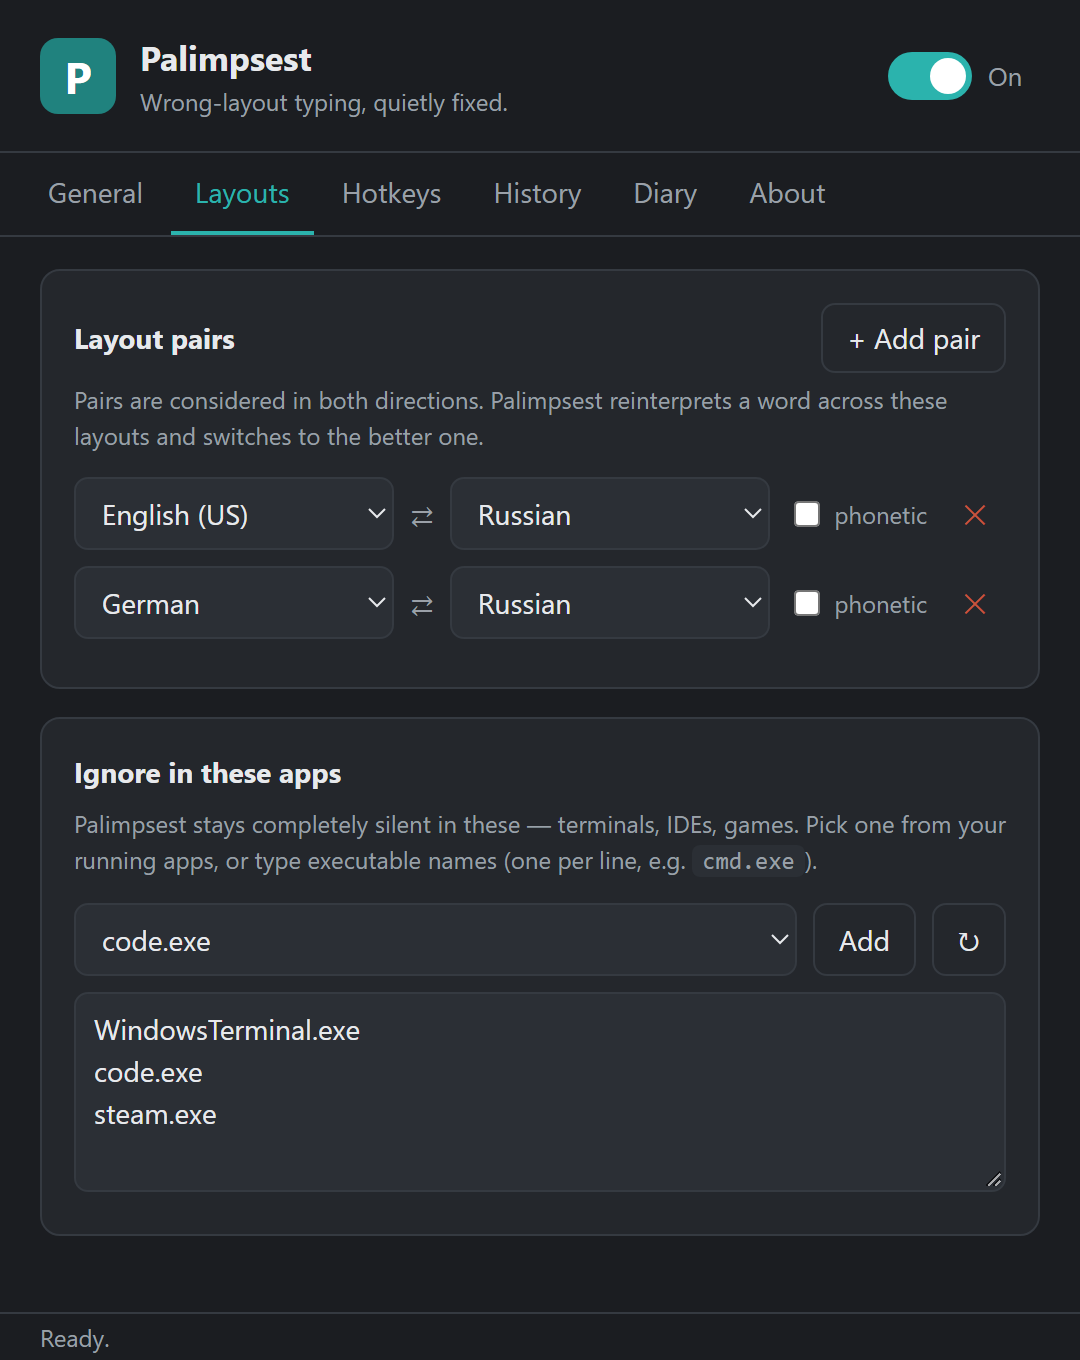
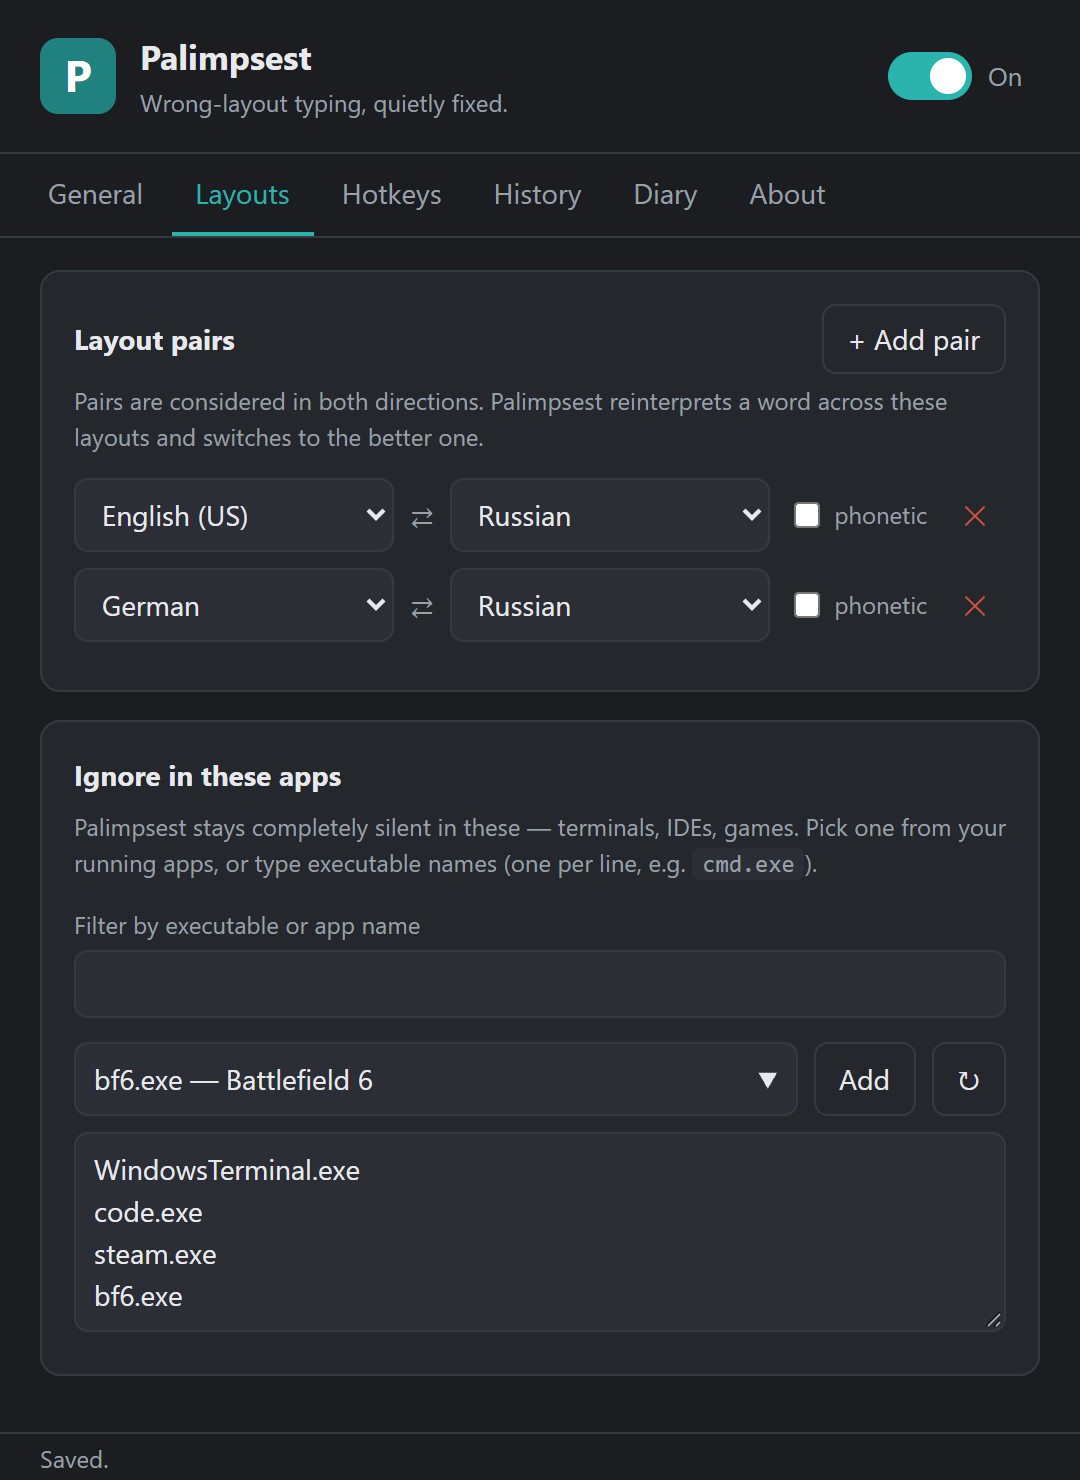
feat: Add searchable process names

diff --git a/crates/palimpsest-app/ui/main.js b/crates/palimpsest-app/ui/main.js
@@ -40,6 +40,7 @@ const el = {
   pairs: $("pairs"),
   addPair: $("add-pair"),
   ignore: $("ignore"),
+  procFilter: $("proc-filter"),
   procList: $("proc-list"),
   addProc: $("add-proc"),
   refreshProc: $("refresh-proc"),
@@ -178,6 +179,7 @@ async function refreshLocale() {
 // built from data (hotkey labels, history rows, learned words).
 function retranslate() {
   applyI18n();
+  if (el.procList.options.length) renderProcesses();
   el.enabledLabel.textContent = el.enabled.checked ? t("on") : t("paused");
   renderHotkey();
   renderHistory();
@@ -290,19 +292,49 @@ function readPairs() {
 
 // ----- Process picker --------------------------------------------------------
 
+let runningProcesses = [];
+
 async function loadProcesses() {
+  if (el.refreshProc.disabled) return;
+  el.refreshProc.disabled = true;
   try {
-    const procs = await invoke("list_processes");
-    el.procList.innerHTML = "";
-    for (const name of procs) {
-      const opt = document.createElement("option");
-      opt.value = name;
-      opt.textContent = name;
-      el.procList.appendChild(opt);
-    }
+    runningProcesses = await invoke("list_processes");
+    renderProcesses();
   } catch (e) {
     setStatus(t("listAppsFailed", { error: e }));
+  } finally {
+    el.refreshProc.disabled = false;
   }
+}
+
+function renderProcesses() {
+  const previous = el.procList.value;
+  const query = el.procFilter.value.trim().toLowerCase();
+  const options = [];
+  for (const { exe, display_name } of runningProcesses) {
+    if (!exe.toLowerCase().includes(query) && !display_name?.toLowerCase().includes(query)) continue;
+
+    const option = new Option("", exe);
+    const filename = document.createElement("span");
+    const separator = document.createElement("span");
+    const name = document.createElement("span");
+    filename.textContent = exe;
+    separator.className = "proc-separator";
+    separator.textContent = display_name ? " — " : "";
+    name.className = "proc-name";
+    name.textContent = display_name || "";
+    option.append(filename, separator, name);
+    option.title = option.textContent;
+    if (exe === previous) option.selected = true;
+    options.push(option);
+  }
+  el.addProc.disabled = options.length === 0;
+  if (!options.length) {
+    const empty = new Option(t("noMatchingProcesses"), "", true, true);
+    empty.disabled = true;
+    options.push(empty);
+  }
+  el.procList.replaceChildren(...options);
 }
 
 function ignoreList() {
@@ -773,6 +805,7 @@ function wire() {
     apply();
   });
 
+  el.procFilter.addEventListener("input", renderProcesses);
   el.addProc.addEventListener("click", () => addIgnore(el.procList.value));
   el.refreshProc.addEventListener("click", loadProcesses);
 
@@ -1039,7 +1072,6 @@ async function init() {
   } catch (e) {
     setStatus(t("listLayoutsFailed", { error: e }));
   }
-  await loadProcesses();
   await loadWords();
   try {
     const config = await invoke("get_config");
@@ -1052,6 +1084,7 @@ async function init() {
   } catch (e) {
     setStatus(t("loadFailed", { error: e }));
   }
+  loadProcesses();
   try {
     appVersion = await invoke("app_version");
     renderAbout();

diff --git a/crates/palimpsest-app/ui/i18n.js b/crates/palimpsest-app/ui/i18n.js
@@ -46,6 +46,8 @@ const I18N = {
       "Palimpsest stays completely silent in these — terminals, IDEs, games. Pick one from your running apps, or type executable names (one per line, e.g. <code>cmd.exe</code>).",
     add: "Add",
     refreshList: "Refresh list",
+    filterProcesses: "Filter by executable or app name",
+    noMatchingProcesses: "No matching processes",
 
     language: "Language",
     languageHint:
@@ -226,6 +228,8 @@ const I18N = {
       "В них Palimpsest полностью молчит — терминалы, IDE, игры. Выберите из запущенных приложений или впишите имена исполняемых файлов (по одному в строке, например <code>cmd.exe</code>).",
     add: "Добавить",
     refreshList: "Обновить список",
+    filterProcesses: "Фильтр по имени файла или приложения",
+    noMatchingProcesses: "Подходящих процессов нет",
 
     language: "Язык",
     languageHint:
@@ -406,6 +410,8 @@ const I18N = {
       "У них Palimpsest повністю мовчить — термінали, IDE, ігри. Оберіть із запущених застосунків або впишіть імена виконуваних файлів (по одному в рядку, наприклад <code>cmd.exe</code>).",
     add: "Додати",
     refreshList: "Оновити список",
+    filterProcesses: "Фільтр за назвою файлу або застосунку",
+    noMatchingProcesses: "Відповідних процесів немає",
 
     language: "Мова",
     languageHint:
@@ -586,6 +592,8 @@ const I18N = {
       "Hier bleibt Palimpsest völlig still — Terminals, IDEs, Spiele. Aus den laufenden Apps auswählen oder Programmnamen eintragen (einer pro Zeile, z. B. <code>cmd.exe</code>).",
     add: "Hinzufügen",
     refreshList: "Liste aktualisieren",
+    filterProcesses: "Nach Dateiname oder App-Name filtern",
+    noMatchingProcesses: "Keine passenden Prozesse",
 
     language: "Sprache",
     languageHint:

diff --git a/crates/palimpsest-app/ui/styles.css b/crates/palimpsest-app/ui/styles.css
@@ -152,8 +152,35 @@ textarea { width: 100%; resize: vertical; }
 input[type="number"] { width: 90px; }
 
 /* Process picker */
+.process-filter { color: var(--muted); font-size: 12px; }
+.process-filter input { width: 100%; }
 .picker-row { display: flex; flex-wrap: wrap; gap: 8px; margin-bottom: 8px; }
 .picker-row select { flex: 1 1 140px; min-width: 0; }
+
+@supports (appearance: base-select) {
+  #proc-list, #proc-list::picker(select) { appearance: base-select; }
+  #proc-list::picker(select) {
+    background: var(--card-2);
+    color: var(--text);
+    border: 1px solid var(--border);
+    border-radius: 7px;
+    width: anchor-size(width);
+    max-height: min(280px, 45vh);
+    position-area: block-end span-inline-end;
+    position-try-fallbacks: flip-block;
+    position-try-order: normal;
+  }
+  #proc-list option:not([value=""]) {
+    display: grid;
+    grid-template-columns: 1em repeat(2, minmax(0, 1fr));
+    gap: 8px;
+  }
+  #proc-list option::checkmark { display: block; }
+  #proc-list option:not(:checked)::checkmark { visibility: hidden; }
+  #proc-list option span { overflow: hidden; text-overflow: ellipsis; white-space: nowrap; }
+  #proc-list option .proc-separator { display: none; }
+  #proc-list option .proc-name { color: var(--muted); }
+}
 
 /* Hotkey capture */
 .hotkey-row { display: flex; flex-wrap: wrap; align-items: center; gap: 10px; }

diff --git a/crates/palimpsest-app/ui/index.html b/crates/palimpsest-app/ui/index.html
@@ -112,15 +112,19 @@
         </div>
 
         <div class="card">
-          <h2 data-i18n="ignoreApps">Ignore in these apps</h2>
+          <h2 id="ignore-apps-label" data-i18n="ignoreApps">Ignore in these apps</h2>
           <p class="hint" data-i18n-html="ignoreAppsHint">
             Palimpsest stays completely silent in these — terminals, IDEs, games.
             Pick one from your running apps, or type executable names (one per
             line, e.g. <code>cmd.exe</code>).
           </p>
+          <div class="field process-filter">
+            <label for="proc-filter" data-i18n="filterProcesses">Filter by executable or app name</label>
+            <input id="proc-filter" type="search" spellcheck="false" aria-controls="proc-list" />
+          </div>
           <div class="picker-row">
-            <select id="proc-list"></select>
-            <button class="ghost" id="add-proc" type="button" data-i18n="add">Add</button>
+            <select id="proc-list" aria-labelledby="ignore-apps-label"></select>
+            <button class="ghost" id="add-proc" type="button" data-i18n="add" disabled>Add</button>
             <button class="ghost" id="refresh-proc" type="button" data-i18n-title="refreshList">↻</button>
           </div>
           <textarea id="ignore" rows="4" spellcheck="false"></textarea>

diff --git a/crates/palimpsest-core/src/processes.rs b/crates/palimpsest-core/src/processes.rs
@@ -2,19 +2,35 @@
 //! the settings UI, so users can choose an app to silence instead of typing its
 //! executable name by hand.
 
-use std::collections::BTreeSet;
+use std::collections::BTreeMap;
+use std::ffi::c_void;
 use std::mem::size_of;
+use std::ptr::null_mut;
+use std::slice;
 
+use serde::Serialize;
+use windows::core::{w, HSTRING, PCWSTR};
 use windows::Win32::Foundation::CloseHandle;
+use windows::Win32::Storage::FileSystem::{
+    GetFileVersionInfoSizeW, GetFileVersionInfoW, VerQueryValueW,
+};
 use windows::Win32::System::Diagnostics::ToolHelp::{
     CreateToolhelp32Snapshot, Process32FirstW, Process32NextW, PROCESSENTRY32W, TH32CS_SNAPPROCESS,
 };
 
-/// Distinct executable names of currently running processes (e.g. `notepad.exe`),
-/// sorted case-insensitively. Best-effort: returns an empty list if the snapshot
-/// can't be taken.
-pub fn running() -> Vec<String> {
-    let mut names: BTreeSet<String> = BTreeSet::new();
+use crate::context::image_path_for_pid;
+
+#[derive(Serialize)]
+pub struct RunningProcess {
+    pub exe: String,
+    pub display_name: Option<String>,
+}
+
+/// Distinct running executables, sorted case-insensitively, with optional names
+/// from their Windows version resources.
+pub fn running() -> Vec<RunningProcess> {
+    let mut names = BTreeMap::new();
+    let mut path = vec![0u16; 32_768];
     unsafe {
         let Ok(snapshot) = CreateToolhelp32Snapshot(TH32CS_SNAPPROCESS, 0) else {
             return Vec::new();
@@ -26,9 +42,18 @@ pub fn running() -> Vec<String> {
         if Process32FirstW(snapshot, &mut entry).is_ok() {
             loop {
                 let end = entry.szExeFile.iter().position(|&c| c == 0).unwrap_or(entry.szExeFile.len());
-                let name = String::from_utf16_lossy(&entry.szExeFile[..end]);
-                if !name.is_empty() {
-                    names.insert(name);
+                let exe = String::from_utf16_lossy(&entry.szExeFile[..end]);
+                if !exe.is_empty() {
+                    let process = names.entry(exe.to_ascii_lowercase()).or_insert(RunningProcess {
+                        exe,
+                        display_name: None,
+                    });
+                    if process.display_name.is_none() {
+                        if let Some(len) = image_path_for_pid(entry.th32ProcessID, &mut path) {
+                            path[len] = 0;
+                            process.display_name = display_name(PCWSTR(path.as_ptr()));
+                        }
+                    }
                 }
                 if Process32NextW(snapshot, &mut entry).is_err() {
                     break;
@@ -37,7 +62,53 @@ pub fn running() -> Vec<String> {
         }
         let _ = CloseHandle(snapshot);
     }
-    let mut out: Vec<String> = names.into_iter().collect();
-    out.sort_by_key(|s| s.to_lowercase());
-    out
+    names.into_values().collect()
+}
+
+unsafe fn display_name(path: PCWSTR) -> Option<String> {
+    let size = GetFileVersionInfoSizeW(path, None);
+    if size == 0 {
+        return None;
+    }
+    let mut data = vec![0u32; (size as usize).div_ceil(size_of::<u32>())];
+    let block = data.as_mut_ptr().cast::<c_void>();
+    GetFileVersionInfoW(path, 0, size, block).ok()?;
+
+    let mut value = null_mut();
+    let mut len = 0;
+    if !VerQueryValueW(block, w!("\\VarFileInfo\\Translation"), &mut value, &mut len).as_bool()
+        || value.is_null() || len < 4
+    {
+        return None;
+    }
+    // Win32 returns translation lengths in bytes, and string lengths in UTF-16 units.
+    let translations = slice::from_raw_parts(value.cast::<u16>(), len as usize / 2);
+    for field in ["FileDescription", "ProductName"] {
+        for pair in translations.chunks_exact(2) {
+            let key = HSTRING::from(format!("\\StringFileInfo\\{:04x}{:04x}\\{field}", pair[0], pair[1]));
+            if VerQueryValueW(block, &key, &mut value, &mut len).as_bool()
+                && !value.is_null() && len != 0
+            {
+                let name = String::from_utf16_lossy(slice::from_raw_parts(value.cast::<u16>(), len as usize));
+                let name = name.trim_end_matches('\0').trim();
+                if !name.is_empty() {
+                    return Some(name.to_owned());
+                }
+            }
+        }
+    }
+    None
+}
+
+#[cfg(test)]
+mod tests {
+    use super::*;
+
+    #[test]
+    fn reads_display_name_from_windows_executable() {
+        let root = std::env::var_os("SystemRoot").expect("Windows system directory");
+        let exe = std::path::Path::new(&root).join("System32").join("cmd.exe");
+        let path = HSTRING::from(exe.as_os_str());
+        assert!(unsafe { display_name(PCWSTR(path.as_ptr())) }.is_some());
+    }
 }

diff --git a/crates/palimpsest-core/src/context.rs b/crates/palimpsest-core/src/context.rs
@@ -69,18 +69,24 @@ impl Context {
 }
 
 /// Query the full image path of `pid` and reduce it to a lowercased file name.
-unsafe fn exe_for_pid(pid: u32) -> Option<String> {
-    let handle = OpenProcess(PROCESS_QUERY_LIMITED_INFORMATION, false, pid).ok()?;
+fn exe_for_pid(pid: u32) -> Option<String> {
     let mut buf = [0u16; 260];
-    let mut len = buf.len() as u32;
-    let result =
-        QueryFullProcessImageNameW(handle, PROCESS_NAME_WIN32, PWSTR(buf.as_mut_ptr()), &mut len);
-    let _ = CloseHandle(handle);
-    result.ok()?;
-
-    let path = String::from_utf16_lossy(&buf[..len as usize]);
+    let len = image_path_for_pid(pid, &mut buf)?;
+    let path = String::from_utf16_lossy(&buf[..len]);
     let file = path.rsplit(['\\', '/']).next().unwrap_or(&path);
     Some(file.to_ascii_lowercase())
+}
+
+pub(crate) fn image_path_for_pid(pid: u32, buf: &mut [u16]) -> Option<usize> {
+    let mut len = buf.len() as u32;
+    unsafe {
+        let handle = OpenProcess(PROCESS_QUERY_LIMITED_INFORMATION, false, pid).ok()?;
+        let result =
+            QueryFullProcessImageNameW(handle, PROCESS_NAME_WIN32, PWSTR(buf.as_mut_ptr()), &mut len);
+        let _ = CloseHandle(handle);
+        result.ok()?;
+    }
+    Some(len as usize)
 }
 
 /// Best-effort: is the control with keyboard focus a native password edit box?

diff --git a/crates/palimpsest-app/src/commands.rs b/crates/palimpsest-app/src/commands.rs
@@ -91,10 +91,10 @@ pub fn open_logs() -> Result<(), String> {
     crate::logging::reveal().map_err(|e| e.to_string())
 }
 
-/// Executable names of currently running processes, for the ignore-list picker.
+/// Running executables and their optional display names, for the ignore-list picker.
 #[tauri::command]
-pub fn list_processes() -> Vec<String> {
-    processes::running()
+pub async fn list_processes() -> Result<Vec<processes::RunningProcess>, String> {
+    tauri::async_runtime::spawn_blocking(processes::running).await.map_err(|e| e.to_string())
 }
 
 /// Keyboard layouts the user actually has installed, for the layout-pair picker.

diff --git a/AGENT_INSTRUCTIONS.md b/AGENT_INSTRUCTIONS.md
@@ -41,6 +41,9 @@ Rust workspace, two crates:
   over six panes (General, Layouts, Hotkeys, History, Diary, About); a `.pane` is
   shown by `.active`, and `main.js` keeps exactly one tab and one pane marked.
   User-facing text is localized — see "Localization" below.
+  The ignored-process picker reads optional Windows executable descriptions on
+  a blocking worker. It filters by filename or display name and saves only the
+  executable filename, which the engine uses for matching.
 - `crates/palimpsest-core/examples` — manual Windows spike programs
   (`spike_hook`, `spike_correct`, `spike_context`); interactive, not a substitute
   for tests.
